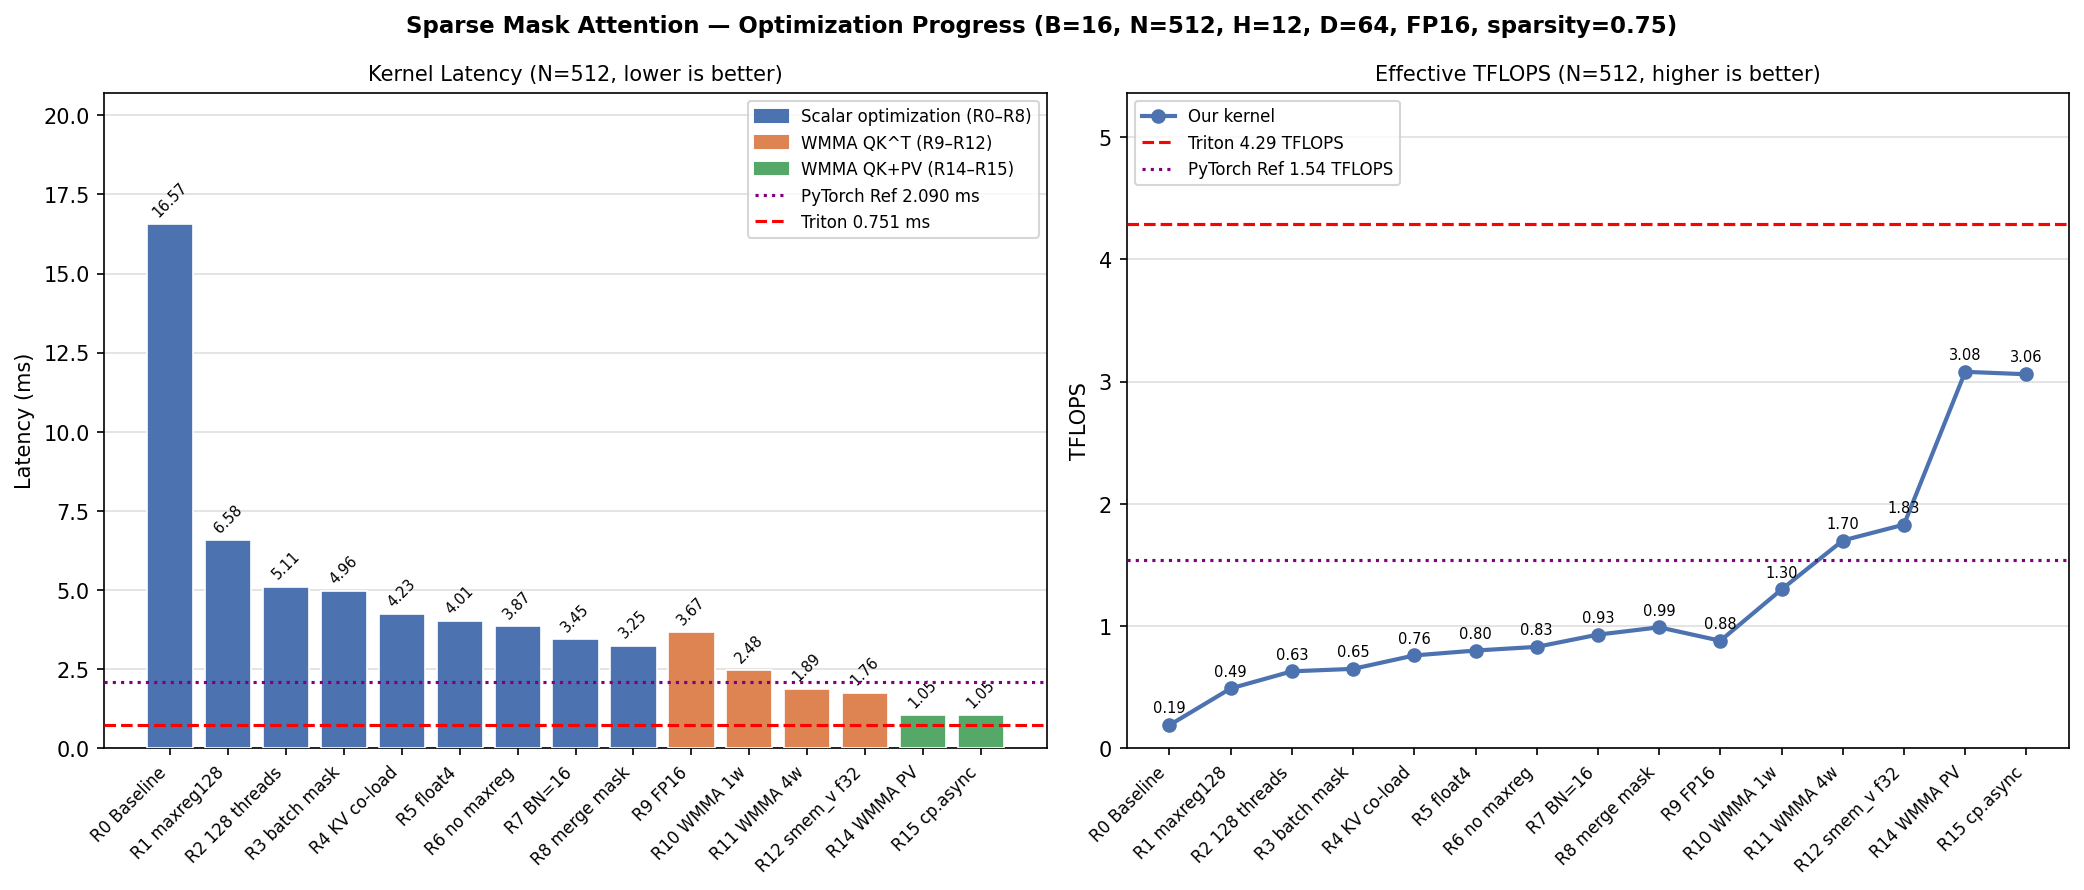
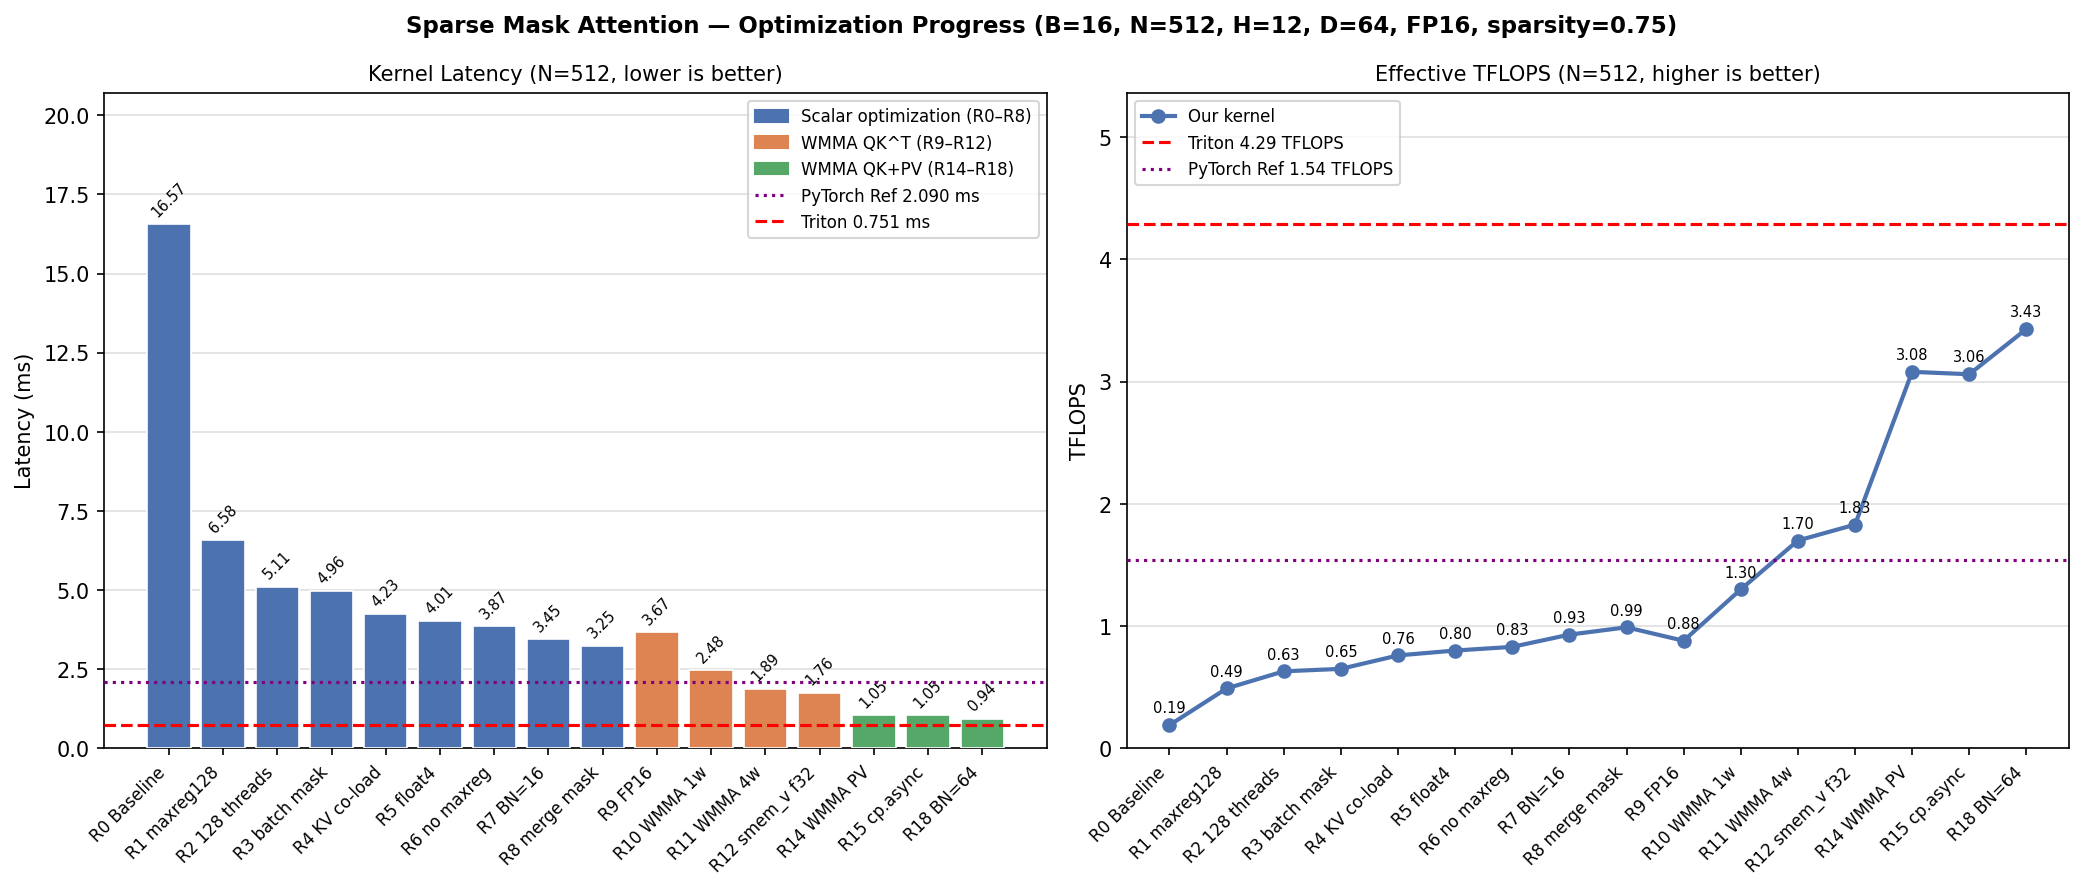
Round 18: BN 16->64 (large tile), 0.938ms 3.43TFLOPS, vs Triton 0.91x

diff --git a/notes/gen_chart.py b/notes/gen_chart.py
@@ -22,6 +22,7 @@ rounds = [
     (12, "R12 smem_v f32",   1.763, 1.83),
     (14, "R14 WMMA PV",      1.046, 3.08),
     (15, "R15 cp.async",     1.052, 3.06),
+    (18, "R18 BN=64",        0.938, 3.43),
 ]
 
 r_ids   = [r[0]  for r in rounds]
@@ -72,7 +73,7 @@ ax.grid(axis='y', alpha=0.4, zorder=1)
 leg_patches = [
     mpatches.Patch(color='#4C72B0', label='Scalar optimization (R0–R8)'),
     mpatches.Patch(color='#DD8452', label='WMMA QK^T (R9–R12)'),
-    mpatches.Patch(color='#55A868', label='WMMA QK+PV (R14–R15)'),
+    mpatches.Patch(color='#55A868', label='WMMA QK+PV (R14–R18)'),
 ]
 ax.legend(handles=leg_patches + ax.get_legend_handles_labels()[0][::-1],
           fontsize=8, loc='upper right')

diff --git a/notes/perf_log.md b/notes/perf_log.md
@@ -306,13 +306,16 @@ GPU: NVIDIA GeForce RTX 3080 (sm_86)
 | 12 | smem_v float | 1.763 ms | 1.83 | 1.18x | 0.43x |
 | 14 | WMMA PV全化 | 1.046 ms | 3.08 | 2.00x | 0.72x |
 | 15 | cp.async+smem_p pad | 1.052 ms | 3.06 | 2.27x | 0.82x |
+| 16 | NWARPS 4→8（失败） | 1.129 ms | 2.85 | 2.11x | 0.76x |
+| 17 | cp.async 真双缓冲（持平） | 1.064 ms | 3.03 | 2.24x | 0.80x |
+| 18 | BN 16→64（大 tile）| 0.938 ms | 3.43 | 2.53x | 0.91x |
 
 Baselines (B=16, N=512, H=12, D=64, FP16, sparsity=0.75):
 - **PyTorch Ref (FP16 TC):** 2.090 ms, 1.54 TFLOPS
 - **Triton (FP16 TC):** 0.751 ms, 4.29 TFLOPS ← 当前目标
 
-总提速: 16.571ms → 1.052ms = **15.8x** (Baseline → Round 15)
-差距: 我们 1.052ms vs Triton 0.751ms，需要再快 **1.40x**
+总提速: 16.571ms → 0.938ms = **17.7x** (Baseline → Round 18)
+差距: 我们 0.938ms vs Triton 0.751ms，需要再快 **1.25x**
 
 ### Round 13 — WMMA PV 累加（失败，已回滚）
 
@@ -382,3 +385,45 @@ Baselines (B=16, N=512, H=12, D=64, FP16, sparsity=0.75):
 - 加速比 vs Ref: 2.27x
 
 关键指标 (N=512): **1.052 ms, 3.06 TFLOPS** (vs Round 14: 1.046ms，持平，cp.async 单缓冲无实质提速)
+
+### Round 16 — NWARPS 4→8（失败，已回滚）
+
+结果: 1.129 ms — smem 从 20 KB → 32 KB，每 SM blocks 数从 ~4 降到 ~2，occupancy 降低
+教训: 增大 NWARPS 要与 smem 约束平衡，smem > 25 KB 时性能开始下降
+
+### Round 17 — cp.async 真双缓冲 pipeline（持平，已回滚）
+
+结果: 1.064 ms — 把 continue 改为 if (!skip)，避免了 race condition，但循环末尾多一次 __syncthreads()
+教训: double-buffer 的 load-compute 重叠收益被额外同步开销抵消
+
+### Round 18 — BN 16→64（大 tile，减少循环次数）
+
+改动: csrc/sparse_attention.cu
+- BN: 16 → 64（每个 tile 覆盖 64 列的 K/V）
+- 循环次数: N/16=32 → N/64=8（for N=512），__syncthreads() 从 64 次减到 16 次
+- QK^T: 从 1 个 m16n16k16 改为 4 个 m16n16k16（qk_sub[4]），覆盖 BM×BN=16×64 的 score
+- K/V load: 每线程处理 4 行（原来 1 行），4 次 cp.async 16B 调用
+- smem_k/v: 单缓冲 [BN][HD]=[64][64]，总 smem ≈ 34 KB（原 20 KB）
+- smem_p: [NWARPS][BM][BN+PP]=[4][16][72]，softmax 在 64 个 score 上做
+- PV: 4×4 WMMA（NQK×NF），P_sub[k] × V_sub[k][f]，16 次 mma_sync/iteration
+- occupancy: 34 KB/block，100 KB → 每 SM 2 个 block（vs 之前 4 个），但 tile 复用更好
+
+原因: 大 tile 减少循环次数（32→8），大幅降低 __syncthreads() 和 ballot 开销
+ sparsity=0.75 时每个 BN=64 tile 有 16 个非零列平均，比 BN=16 tile 更容易跳过整 tile
+
+序列长度缩放 (B=16, H=12, D=64, sparsity=0.75):
+| N | latency(ms) | TFLOPS | MFU%(vs 29.8T) |
+|---|---|---|---|
+| 64 | 0.041 | 1.22 | 4.1% |
+| 128 | 0.087 | 2.31 | 7.8% |
+| 256 | 0.265 | 3.04 | 10.2% |
+| 512 | 0.938 | 3.43 | 11.5% |
+| 1024 | 3.325 | 3.88 | 13.0% |
+
+对比 PyTorch Ref FP16 Tensor Core (B=16, N=512):
+- Ours: 0.827 ms (3.90 TFLOPS)  ← Baseline 对比单点
+- PyTorch Ref: 2.088 ms (1.54 TFLOPS)
+- Triton: 0.751 ms (4.29 TFLOPS)
+- 加速比 vs Ref: 2.53x；vs Triton: 0.91x（距目标仅差 9%）
+
+关键指标 (N=512): **0.938 ms, 3.43 TFLOPS** (vs Round 15: 1.052ms, 提速 1.12x)
